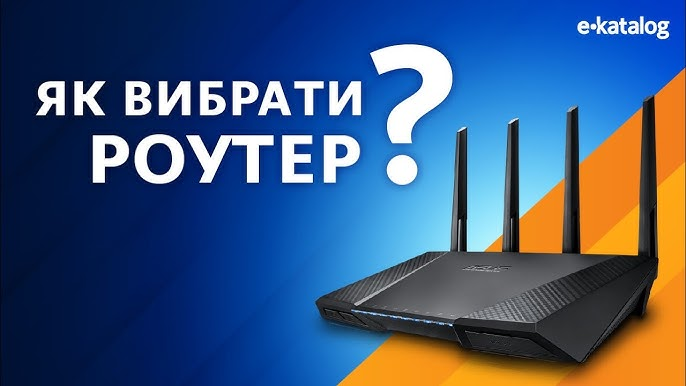
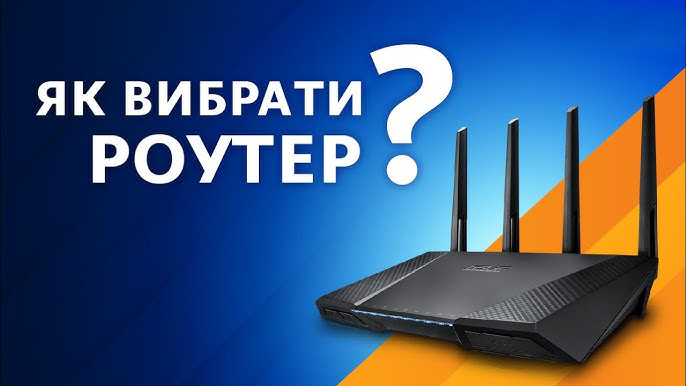
Add files via upload

diff --git a/index.html b/index.html
@@ -97,7 +97,7 @@ footer{background:var(--dark);color:#cbd5f5;text-align:center;padding:30px}
   </div>
 </section>
 
-    <img src="images/uslugi.webp" class="content-img">
+    <img src="images/module.jpg" class="content-img">
 
 <!-- WHY US -->
 <section>
@@ -137,16 +137,14 @@ footer{background:var(--dark);color:#cbd5f5;text-align:center;padding:30px}
         data-en="Modern connection technologies"></h2>
 		
 		
-		    <h2 data-ua="Одномодове оптоволокно G657A2"
-        data-en="Single-mode fiber optic G657A2"></h2>
+		    <h3 data-ua="Одномодове оптоволокно G657A2"
+        data-en="Single-mode fiber optic G657A2"></h3>
 		
 		    <img src="images/fiber-cable.jpg" class="content-img">
 
     <p data-ua="Одномодове оптоволокно G657A2 в буфері високої щільності 0,5 мм - високотехнологічне рішення для виробництва оптичних кабелів і прокладки волоконно-оптичних мереж. Ця модель має високу гнучкість і мінімальний радіус вигину 7, 5 мм, що робить її ідеальною для використання в щільно встановлених телекомунікаційних системах, зокрема в мережах FTTH, PON-системах, центрах обробки даних і корпоративних мережах. Завдяки листовому буферному покриттю товщиною 0,5 мм волокно отримує додатковий захист від механічних пошкоджень, вологи і пилу, що значно підвищує його довговічність і надійність в складних умовах експлуатації. Загальна щільність волокна 3 G.652.D, щільність - це вся щільність (OL), не перевищує щільність води при 1383 нм, а ширина достатня для розміщення векторних ширин спектру для систем автомобільного зору DWDM/CWDM. Геометричні параметри низького PMD повинні використовуватися для сублімації сублімації прологу віскозними лопатями. Результати випробувань показують, що при швидкості 15 мм (10 дюймів) вхід при 1550 нм не перевищує 0, 25 д Б, а при 1625 нм - 1, 0 д Б. У той же час змінені радіуси (близько 7, 5-10 мм) можна досягти при 1625 нм близько до 1 дБ, щоб дозволити необроблені плетені волокна на швах. Технічні характеристики - основна відмінність приладів. Для підключення Інтернету через оптоволокно важливо вибрати та встановити оптимальні пристрої. Наприклад, при швидкості передачі даних до 100 Мбіт/с або 1 Гбіт/с."
     
 	data-en="Single-mode optical fiber G657A2 in high-density buffer 0.5 mm is a high-tech solution for the production of optical cables and laying of fiber-optic networks. This model has high flexibility and a minimum bending radius of 7.5 mm, making it ideal for use in tightly installed telecommunications systems, including FTTH networks, PON systems, data centers and corporate networks. Thanks to the sheet buffer coating with a thickness of 0.5 mm, the fiber receives additional protection against mechanical damage, moisture and dust, which significantly increases its durability and reliability in difficult operating conditions. Total fiber density 3 G.652.D, density is all density (OL), not exceeding the density of water at 1383 nm, and the width is sufficient to accommodate the vector spectrum widths for DWDM/CWDM automotive vision systems. Low PMD geometric parameters shall be used to sublimate prologue sublimation with viscose blades. Test results show that at a speed of 15 mm (10 inches), the input at 1550 nm does not exceed 0.25 dB, and at 1625 nm - 1.0 dB. At the same time, altered radii (about 7.5-10 mm) can be achieved at 1625 nm close to 1 dB to allow untreated braided fibers at the seams. Technical characteristics are the main difference between devices. To connect the Internet through fiber, it is important to select and install optimal devices. For example, at data rates up to 100 Mbit/s or 1 Gbit/s."></p>
-
-
 
     <ul>
       <li data-ua="Висока пропускна здатність"
@@ -159,6 +157,8 @@ footer{background:var(--dark);color:#cbd5f5;text-align:center;padding:30px}
   </div>
 </section>
 
+
+
 <!-- EQUIPMENT -->
 <section>
   <div class="container">
@@ -167,7 +167,7 @@ footer{background:var(--dark);color:#cbd5f5;text-align:center;padding:30px}
 
     <h3 data-ua="4G WiFi маршрутизатори"
         data-en="4G WiFi routers"></h3>
-    <img src="images/wifi-router.webp" class="content-img">
+    <img src="images/wifi-router.jpg" class="content-img">
 	
 	    <p data-ua="Технічні характеристики - основна відмінність приладів. Для підключення Інтернету через оптоволокно важливо вибрати та встановити оптимальні пристрої. Наприклад, при швидкості передачі даних до 100 Мбіт/с або 1 Гбіт/с. Експерти компанії «On Dottie» визначать Ваші потреби, створять список пристроїв для широкосмугового доступу. Ми забезпечимо надійне підключення та уникнемо проблем із завантаженням контенту. Перед підключенням до Інтернету в Україні можна дізнатися про пристрої."
 		data-en="Technical characteristics are the main difference between devices. To connect the Internet through fiber, it is important to select and install optimal devices. For example, at data rates up to 100 Mbit/s or 1 Gbit/s. Experts of the «On Dottie» company will determine your needs, create a list of devices for broadband access. We will ensure a reliable connection and avoid problems with downloading content. Before connecting to the Internet in Ukraine, you can find out about the devices."></p>
